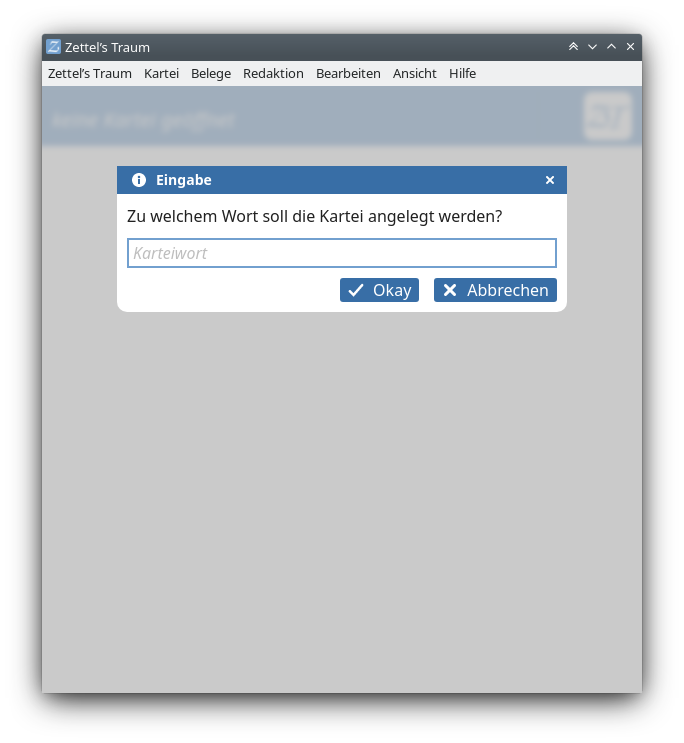
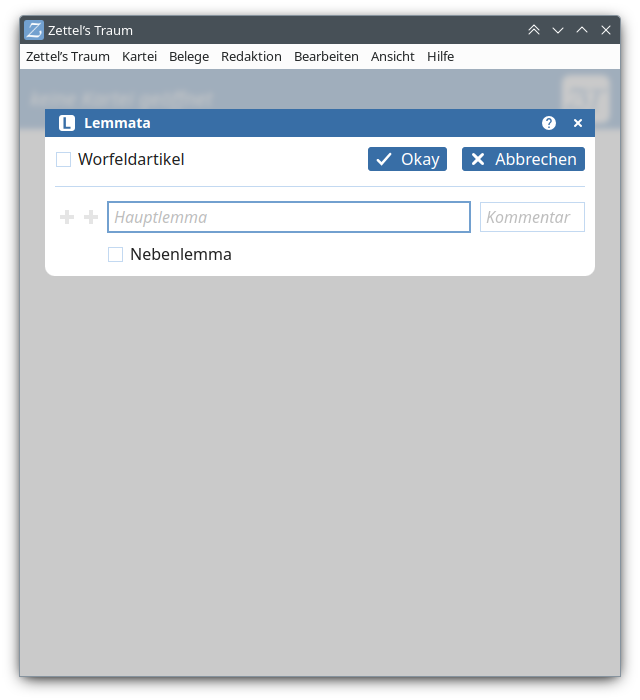
Lemmata: Handbuch angepasst, neuer Abschnitt zum Lemmata-Fenster

Changed region(s): [[0.0, 0.0, 1.0, 0.99]]

diff --git a/win/handbuch.html b/win/handbuch.html
@@ -196,7 +196,7 @@
 
             <figure title="zum Vergrößern anklicken">
               <img src="../img/win/kurzanleitung-dialogfenster.png" alt="">
-              <figcaption>3. Dialogfenster: Eingabeaufforderung für ein Karteiwort</figcaption>
+              <figcaption>3. Dialogfenster: Eingabeaufforderung für die Karteiwörter</figcaption>
             </figure>
           </div>
 
@@ -247,7 +247,7 @@
           <ol>
             <li><b>Registrieren</b> Sie sich! Die App wird Sie beim Öffnen des Hauptfenster dazu auffordern. Der im Registrierungsfenster eingegebene Name wird in den Einstellungen gespeichert und kann unter <i><span class="app-name"></span> &gt; Einstellungen &gt; Allgemeines &gt; <a href="#einstellungen-allgemeines">BearbeiterIn auf diesem Rechner</a></i> geändert werden. Die Registrierung ist besonders für größere Projekte wichtig, damit man später leicht nachvollziehen kann, wer eine Wortkartei bearbeitet hat.</li>
 
-            <li><a href="#menueKartei-erstellen">Erstellen</a> Sie eine <b>Wortkartei</b>, indem Sie nach dem Programmstart in der <a href="#menueApp-neuesFenster">Startansicht</a> auf den großen Button <i>Kartei erstellen</i> klicken. Sie werden nach einem Wort gefragt. Geben Sie in dem Dialog ein Wort (Substantiv, Adjektiv oder <abbr title="dergleichen">dgl.</abbr>) oder eine Wortverbindung (Syntagma, Redewendung oder <abbr title="dergleichen">dgl.</abbr>) ein. Eingaben, die an den Beginn eines klassischen Lexikonartikels erinnern (<abbr title="zum Beispiel">z.&nbsp;B.</abbr> <q>Auto, das</q>), sind <a href="#menueKartei-erstellenForm">eher dysfunktional</a>, können aber <abbr title="unter Umständen">u.&nbsp;U.</abbr> durchaus Sinn machen (wie bei <q>Mensch, das</q>). Sammeln Sie in ein und derselben Kartei Belege zu mehreren Wörtern gleichzeitig, geben Sie die Wörter getrennt durch Komma und Leerzeichen ein: <q>Großfamilie, Kleinfamilie, Kernfamilie</q>.</li>
+            <li><a href="#menueKartei-erstellen">Erstellen</a> Sie eine <b>Wortkartei</b>, indem Sie nach dem Programmstart in der <a href="#menueApp-neuesFenster">Startansicht</a> auf den großen Button <i>Kartei erstellen</i> klicken. Das <a href="#menueKartei-lemmata">Dialogfenster für Lemmata</a> erscheint. Geben Sie in dem Feld <i>Hauptlemma</i> ein Wort (Substantiv, Adjektiv oder <abbr title="dergleichen">dgl.</abbr>) oder eine Wortverbindung (Syntagma, Redewendung oder <abbr title="dergleichen">dgl.</abbr>) ein. Eingaben, die an den Beginn eines klassischen Lexikonartikels erinnern (<abbr title="zum Beispiel">z.&nbsp;B.</abbr> <q>Auto, das</q>), sind nicht erlaubt, da das Komma nicht zu den in diesem Feld erlaubten Zeichen gehört. Sammeln Sie in ein und derselben Kartei Belege zu mehreren Wörtern gleichzeitig, klicken Sie im Dialogfenster auf das Icon <img src="../img/plus-dick.svg" width="24" height="24" alt=""> ganz links, um ein weiteres Lemma hinzuzufügen.</li>
 
             <li>
               <p><a href="#karteikarte">Füllen</a> Sie die neue Kartei mit <b>Karteikarten</b>. Nach dem Erstellen einer neuen Kartei wird umgehend ein leeres <a href="#karteikarte-formularansicht">Karteikartenformular</a> geöffnet. Die Datenfelder <i>Datum, Beleg</i> und <i>Quelle</i> müssen ausgefüllt werden, ansonsten lässt sich die Karte nicht speichern. Alle anderen Felder sind optional.</p>
@@ -3826,7 +3826,7 @@ Mustermann, Erika
 
             <p class="add-navi-details" id="menueApp-karteisucheKarteiwort"><b><i>Karteiwort:</i></b> Der Filter sucht nach passenden Karteiwörtern. Die Suche verläuft trunkiert, es werden also auch Wortteile gefunden; Groß- und Kleinschreibung werden ignoriert. <i class="app-name"></i> bietet zwar an, eine neue Kartei mit dem Karteiwort als Namen abzuspeichern. Der Karteiname spielt für diese Suche jedoch keine Rolle. Es wird lediglich das Datenfeld für das Karteiwort <em>innerhalb</em> der Kartei ausgewertet, das vom Dateinamen durchaus abweichen kann und darf.</p>
 
-            <p class="add-navi-details" id="menueApp-karteisucheLemmatyp"><b><i>Lemmatyp:</i></b> Mit diesem Filter kann die Anzeige auf Hautlemmata (eigenständig behandelte Wörter) oder Nebenlemmata (zusammen mit Hauptlemmata kursorisch mitbehandelte Wörter) eingeschränkt werden, je nachdem wie der Filter eingestellt wurde.</p>
+            <p class="add-navi-details" id="menueApp-karteisucheLemmatyp"><b><i>Lemmatyp:</i></b> Mit diesem Filter kann die Anzeige auf Hautlemmata (eigenständig behandelte Wörter) oder Nebenlemmata (zusammen mit Hauptlemmata mitbehandelte Wörter) eingeschränkt werden, je nachdem wie der Filter eingestellt wurde.</p>
 
             <p class="add-navi-details" id="menueApp-karteisucheThemenfelder"><b><i>Themenfelder:</i></b> Mit diesem Filter können Sie nach Karteien suchen, die mit einem oder mehreren Themenfeldern verknüpft wurden. Durchsucht wird das Datenfeld <i>Themenfelder</i>, das über das <a href="#menueRedaktion-metadaten">Redaktionsmetadaten-Fenster</a> gefüllt werden kann. Wollen Sie Karteien finden, in denen Bedeutungen im <a href="#bedeutungsgeruest">Bedeutungsgerüst</a> mit bestimmten Themenfeldern verknüpft wurden, müssen Sie den <a href="#menueApp-karteisucheTag">Tag-Filter</a> nutzen.</p>
 
@@ -3955,13 +3955,13 @@ Mustermann, Erika
 
             <p>Ist im aktuellen Fenster bereits eine Kartei geöffnet, wird ein <b>neues Programmfenster</b> aufgebaut. In diesem Fenster wiederum poppt eine Dialogfenster auf, in dem Sie das gewünschte Wort, Sprichwort, Syntagma eingeben können. Danach haben Sie eine initiale Kartei, in der sich umgehend eine leere Karteikarte öffnet, in der Sie Ihren ersten Beleg einpflegen können.</p>
 
-            <p id="menueKartei-erstellenForm">Zur <b>Form der Eingabe</b>: Es ist in aller Regel nicht sinnvoll, in dem Dialogfenster, das Sie nach dem Wort fragt, etwas einzugeben, was in irgendeiner Weise an den Beginn eines klassischen Wörterbuchartikels erinnert. Schon eine Eingabe wie <q>Auto, das</q> wäre an dieser Stelle eher problematisch. Denn das Programm versucht, zu dem Wort oder den Wörtern, die Sie eingegeben haben, <a href="#menueKartei-formvarianten">Formvarianten</a> zu finden, um diese auf Wunsch im Belegtext hervorzuheben, um den Belegkontext zu kürzen <abbr title="und so weiter">usw.</abbr> Unter Umständen kann es gerade für ein solides Funktionieren der automatisierten Kürzung sogar kontraproduktiv sein, wenn der Artikel mit angegeben wird. Möchten Sie einen Wörterbuchartikel zum Substantiv <i>Auto</i> schreiben, interessiert Sie der Artikel <i>das</i> wahrscheinlich eher nicht. Geben Sie in einem solchen Fall lieber nur <q>Auto</q> ein. In gewissen Fällen ist es freilich dennoch sinnvoll, einen Artikel mit anzugeben, weil er ein für die Semantik entscheidender Marker ist (<abbr title="zum Beispiel">z.&nbsp;B.</abbr> <q>Mensch, das</q>). In solchen Fällen ist es allerdings angezeigt, die Hervorhebung des Artikels in den <a href="#menueKartei-formvarianten">Formvarianten</a> zu deaktivieren.</p>
+            <p id="menueKartei-erstellenForm">Zur <b>Form der Eingabe</b>: Es ist in aller Regel nicht sinnvoll, im <a href="#menueKartei-lemmata">Lemmata-Fenster</a>, das beim Erstellen der Kartei aufgerufen wird, etwas einzugeben, was in irgendeiner Weise an den Beginn eines klassischen Wörterbuchartikels erinnert. Schon eine Eingabe wie <q>Auto, das</q> wäre an dieser Stelle eher problematisch. Denn das Programm versucht, zu dem Wort oder den Wörtern, die Sie eingegeben haben, <a href="#menueKartei-formvarianten">Formvarianten</a> zu finden, um diese auf Wunsch im Belegtext hervorzuheben, um den Belegkontext zu kürzen <abbr title="und so weiter">usw.</abbr> Unter Umständen kann es gerade für ein solides Funktionieren der automatisierten Kürzung sogar kontraproduktiv sein, wenn der Artikel in der Lemmaansetzung mit angegeben wird. Möchten Sie einen Wörterbuchartikel zum Substantiv <i>Auto</i> schreiben, interessiert Sie das Auftreten des Artikels <i>das</i> in den Belegen wahrscheinlich eher nicht. Geben Sie in einem solchen Fall lieber nur <q>Auto</q> ein. In gewissen Fällen ist es freilich dennoch sinnvoll, einen Artikel mit anzugeben, weil er ein für die Semantik entscheidender Marker ist (<abbr title="zum Beispiel">z.&nbsp;B.</abbr> <q>das Mensch</q>). In solchen Fällen ist es allerdings angezeigt, die Hervorhebung des Artikels in den <a href="#menueKartei-formvarianten">Formvarianten</a> zu deaktivieren. Da der Zeichenvorrat für dieses Datenfeld begrenzt wurde, ist ferner das Komma (neben vielen anderen Sonderzeichen) nicht erlaubt.</p>
 
             <p>Vollkommen unproblematisch ist es andererseits, <b>Wortverbindungen</b> wie <q>politisch korrekt</q> oder Redewendungen wie <q>Kopf an Kopf</q> einzugeben. Im letzten Fall wollen Sie wahrscheinlich nicht, dass die Präposition <i>an</i> im Belegtext hervorgehoben wird, zumal eine trunkierte Hervorhebung zahlreiche falschpositive Markierungen produzieren wird. Die Hervorhebung einzelner Wörter kann man darum <a href="#menueKartei-formvariantenAktivieren">abstellen</a>, ebenso wie die <a href="#menueKartei-formvariantenErweitern">automatische Erweiterung</a>.</p>
 
-            <p>Sammeln Sie in ein und derselben Kartei Belege zu <b>mehreren Wörtern</b>, sollten Sie diese Wörter auch alle mit angeben. Dies kann besonders für die <a href="#menueApp-karteisucheTrefferliste">Trefferliste der Karteisuche</a> hilfreich sein: In solchen Fällen werden die Wörter dort einzeln aufgeführt. Dafür müssen Sie bei der Eingabe nur die Regel beachten, dass Einzelwörter durch Komma und Leerzeichen voneinander getrennt werden. Dies könnte dann so aussehen: <q>Großfamilie, Kleinfamilie, Kernfamilie</q>.</p>
+            <p>Sammeln Sie in ein und derselben Kartei Belege zu <b>mehreren Wörtern</b>, sollten Sie diese Wörter auch alle mit angeben. Dies kann besonders für die <a href="#menueApp-karteisucheTrefferliste">Trefferliste der Karteisuche</a> hilfreich sein: In solchen Fällen werden die Wörter dort einzeln aufgeführt. Das <a href="#menueKartei-lemmata">Lemmata-Fenster</a> stellt hierfür alles bereit: Klicken Sie auf das <img src="../img/plus-dick.svg" width="20" height="20" alt=""> ganz links neben dem ersten Hauptlemma und ein neuer Formularabschnitt wird erzeugt, in dem Sie ein weiteres Lemma eingeben können.</p>
 
-            <p>Hat ein Lemma <b>variierende Schreibungen</b> sollten Sie diese mit Schrägstrich voneinander trennen. Eine Eingabe könnte also so aussehen: <q>Clan/Klan</q> oder <q>Getto/Ghetto, gehttoisieren/ghettoisieren</q>. Die Varianten werden <abbr title="zum Beispiel">z.&nbsp;B.</abbr> in der <a href="#menueApp-karteisucheExport">Exportfunktion der Karteisuche</a> als solche erkannt. Außerdem werden in diesem Fall auch für die alternierenden Schreibungen automatisch entsprechende <a href="#menueKartei-formvarianten">Formvarianten</a> gesucht.</p>
+            <p>Hat ein Lemma <b>variierende Schreibungen</b>, die zur Ansetzung des Wortes gehören, fügen Sie mit dem <img src="../img/plus-dick.svg" width="20" height="20" alt=""> direkt neben dem passenden Lemmafeld ein weiteres Textfeld hinzu, in dem Sie die Alternativschreibung notieren. Die Varianten werden <abbr title="zum Beispiel">z.&nbsp;B.</abbr> in der <a href="#menueApp-karteisucheExport">Exportfunktion der Karteisuche</a> als solche erkannt. Außerdem werden in diesem Fall auch für die alternierenden Schreibungen automatisch entsprechende <a href="#menueKartei-formvarianten">Formvarianten</a> gesucht.</p>
           </div>
 
           <p class="erklaerung-icon-menues" id="menueKartei-oeffnen"><img src="../img/oeffnen.svg" width="24" height="24" alt="">Öffnen</p>
@@ -4031,7 +4031,33 @@ Mustermann, Erika
           <p class="erklaerung-icon-menues" id="menueKartei-lemmata"><img src="../img/lemmata.svg" width="24" height="24" alt="">Lemmata</p>
 
           <div class="info">
-            <p>Lemmaliste zur aktuellen Kartei.</p>
+            <p>Lemmata der aktuellen Kartei.</p>
+
+            <p>Jede <abbr title="Zettel’s Traum JSON">ZTJ</abbr>-Kartei wird zu einem oder mehreren Wörtern angelegt. Hier können Sie die Wörter verwalten (ergänzen, löschen, ändern), zu denen Ihre Kartei Belege sammelt. Änderungen in diesem Dialogfenster haben immer Auswirkungen auf die <a href="#menueKartei-formvarianten">Formvarianten</a>: Löschen Sie ein Lemma oder die Schreibung eines Lemmas, wird das Wort in den Formvarianten automatisch deaktiviert. Fügen Sie ein neues Lemma oder eine neue Schreibung hinzu, werden die Formvarianten entsprechend ergänzt.</p>
+
+            <p>Da es sich bei den Lemmata um ein zentrales Element der Kartei handelt, kann das Fenster nur geschlossen werden, wenn Ihre Eingaben formal korrekt sind: In den Lemma-Feldern sind <abbr title="zum Beispiel">z.&nbsp;B.</abbr> nicht alle Zeichen erlaubt, leere Felder dürfen nicht stehen bleiben <abbr title="und so weiter">usw.</abbr> Darum werden vor dem Schließen des Fensters diverse Prüfungen vorgenommen. Sollte dabei ein Fehler gefunden werden, bekommen Sie eine entsprechende Meldung angezeigt.</p>
+
+            <p>Zu den <b>erlaubten Zeichen</b> gehören alle Buchstaben und Ziffern. Und alle, meint alle: Der Umfang der erlaubten Buchstaben und Ziffern geht über die lateinische Buchstaben und ihre Varianten hinaus. Arabisch <i>شمس</i> (<q class="bedeutung">Sonne</q>) ist darum auch genauso erlaubt wie die arabische Ziffer <i>٢٠٠٠</i> (2000). Außerdem können ein paar wenige Sonderzeichen verwendet werden: Leerzeichen, Punkt, Bindestrich und Apostroph (nur das typographisch korrekte ’).</p>
+
+            <p>Terminologie und Struktur des Fensters orientiert sich an der Arbeitsweise von <a href="https://adw-goe.de/forschung/weitere-forschungsprojekte/wortgeschichte-digital-teilprojekt-im-zdl/"><i>Wortgeschichte digital</i></a>:</p>
+
+            <ul>
+              <li><b>Hauptlemma:</b> Ein eigenständig behandeltes Wort, zu dem ein eigener Artikel geschrieben wird. Die Hauptlemmata werden im Fensterkopf der Kartei angezeigt.</li>
+
+              <li><b>Nebenlemma:</b> Ein zusammen mit den Hauptlemmata eines Artikels mitbehandeltes Wort. Auch zu den Nebenlemmata werden Belege aufgenommen, sie werden in einem Artikel allerdings weniger umfangreich thematisiert als Hauptlemmata.</li>
+
+              <li><b>Wortfeldartikel:</b> Überblicksartikel zu mehreren Lemmata, die in einem wortfeldartigen Zusammenhang stehen. Bei diesem Artikeltyp dürfen Sie nur ein einziges Textfeld ausfüllen: das für den Titel. Da auch dieser Artikeltyp mit Belegen arbeitet, müssen Sie die <a href="#menueKartei-formvarianten">Formvarianten</a> zu den behandelten Wörtern manuell aufnehmen. (Da aus Kompatiblitätsgründen zwingend Formvarianten zu mindestens einem Wort vorhanden sein müssen, werden auch in diesem Fall Formvarianten zum Titel angelegt. Sobald Sie Varianten für weitere Lemmata definiert haben, können Sie die automatisch angelegten Varianten zum Titel deaktivieren oder löschen.)</li>
+            </ul>
+
+            <p>Die Icons haben alle einen erläuternden Tooltip:</p>
+
+            <p class="erklaerung-icon"><img src="../img/plus-dick.svg" width="20" height="20" alt="">Fügt einen neuen Lemmablock oder eine Schreibung zum direkt daneben stehenden Lemma hinzu.</p>
+
+            <p class="erklaerung-icon"><img src="../img/pfeil-gerade-hoch.svg" width="20" height="20" alt="">Schiebt den Lemmablock oder die Schreibung um eine Position nach oben.</p>
+
+            <p class="erklaerung-icon"><img src="../img/pfeil-gerade-hoch.svg" width="20" height="20" alt="">Löscht den Lemmablock oder die Schreibung.</p>
+
+            <p>Das Feld <b>Kommentar</b> können Sie frei mit Text befüllen. Steht der Kommentar neben einem Hauptlemma, wird er im Artikelkopf eingeklammert und in kleinerer Type angezeigt.</p>
           </div>
 
           <p class="erklaerung-icon-menues" id="menueKartei-formvarianten"><img src="../img/formvarianten.svg" width="24" height="24" alt="">Formvarianten</p>
